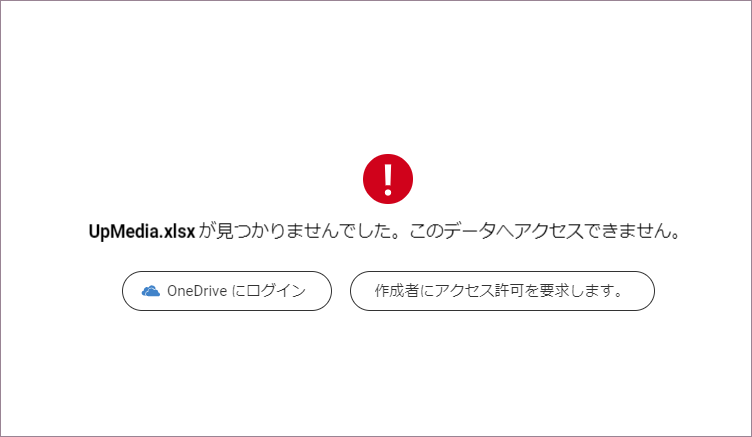
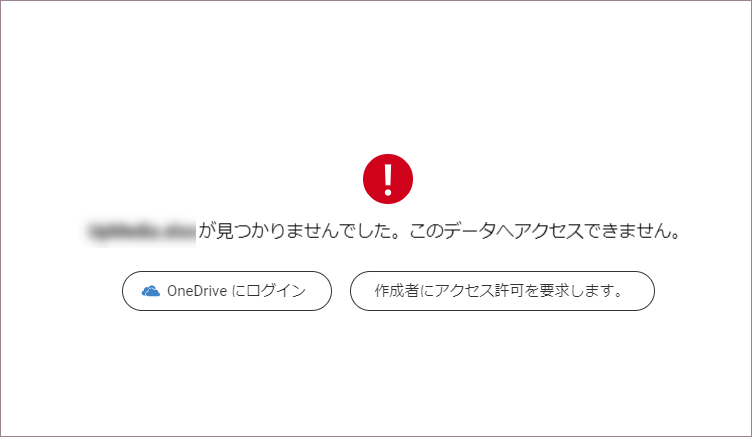
Localization fixes - images, TOC.

Changed region(s): [[0.0918, 0.5057, 0.2753, 0.5652]]

diff --git a/docfx/jp/docs/data-catalog.md b/docfx/jp/docs/data-catalog.md
@@ -56,7 +56,7 @@ Slingshot は、分析、データ ソースとセット、表示形式、ダッ
 
 3. **[適用]** をクリックまたはタップして変更を保存します。
 
-<img src="../images/data-sources-filter-dialog.png" alt="Different filters in the data catalog" width="40%" class="responsive-img"/>
+<img src="../images/data-sources-filter-dialog.png" alt="Different filters in the data catalog" width="35%" class="responsive-img"/>
 
 ## データ カタログの構成
 
@@ -93,9 +93,9 @@ Slingshot は、分析、データ ソースとセット、表示形式、ダッ
    Slingshot ユーザーが、分析、ワークスペース、プロジェクトにある、ダッシュボードまたはデータ ソースを持っているとします。そのコンテンツを組織全体で利用できるようにするには、そのためのプロセスを開始します。
    
    A. ダッシュボードのオーバーフロー (右上) をクリックまたはタップし、**[データ & 分析のカタログに移動]** を選択します。  
-   <img src="../images/data-catalog-dashboard-overflow.png" alt="Data Catalog dashboard overflow within Slingshot" class="responsive-img" width="50%"/> 
+   <img src="../images/data-catalog-dashboard-overflow.png" alt="Data Catalog dashboard overflow within Slingshot" class="responsive-img" width="45%"/> 
    B. 組織管理者に要求を説明するメッセージを書き込みます。ダッシュボードまたはデータ ソースのコピーを元の場所に保存するかどうかも選択できます。  
-   <img src="../images/data-catalog-request.png" alt="Data Catalog dashboard request within Slingshot" class="responsive-img" width="50%"/>  
+   <img src="../images/data-catalog-request.png" alt="Data Catalog dashboard request within Slingshot" class="responsive-img" width="45%"/>  
 
 2. **データ ソースまたはダッシュボードが [レビュー待ち] に移動します。**  
    **レビュー待ち**のリストには、組織の管理者によるレビュー待ちのすべてのデータ ソースまたはダッシュボードが含まれます。

diff --git a/docfx/jp/docs/analytics/dashboards/sharing-dashboards/request-access-shared-dashboards-cloud-files.md b/docfx/jp/docs/analytics/dashboards/sharing-dashboards/request-access-shared-dashboards-cloud-files.md
@@ -14,11 +14,11 @@ _language: ja
 
 ファイルが**削除されている**場合、共有ダッシュボードをクリックすると、Analytics は次のメッセージを表示します。
 
-<img src="images/deleted-source-file-message.png" alt="Message in Analytics: Can't access this data" class="responsive-img" width="60%"/>
+<img src="images/deleted-source-file-message.png" alt="Message in Analytics: Can't access this data" class="responsive-img" width="50%"/>
 
 ファイルへのアクセス許可が**取り消された**場合は、次のように表示されます。
 
-<img src="images/request-access-button.png" alt="configure Dropbox and request access options when access denied" class="responsive-img" width="60%"/>
+<img src="images/request-access-button.png" alt="configure Dropbox and request access options when access denied" class="responsive-img" width="50%"/>
 
 ## 権限の取り消されたデータ ソース ファイルへのアクセス許可
 
@@ -26,6 +26,6 @@ _language: ja
 
 **管理者**が (アプリまたはメールを介して) 通知を開くと、次のダイアログが表示され、データ ソースへの共有設定を更新するように求められます。
 
-<!--- <img src="images/some-data-is-not-accessible-dialog.png" alt="Dialog where you can change the sharing settings for the data source" class="responsive-img"/> --->
+<img src="images/some-data-is-not-accessible-dialog.png" alt="Dialog where you can change the sharing settings for the data source" class="responsive-img" width="50%"/>
 
 管理者が **[更新]** をクリックまたはタップすると、アクセスが正常に修正されたかどうかを通知するメッセージが表示されます。

diff --git a/docfx/jp/docs/analytics/dashboards/uploading-dashboards.md b/docfx/jp/docs/analytics/dashboards/uploading-dashboards.md
@@ -14,9 +14,9 @@ _language: ja
 
 3. オーバーフロー メニューに移動し、**[アップロード]** を選択します。
 
-    <img src="images/dashboard-upload-option.png" alt="Upload dashboard option" class="responsive-img" width="88%"/>
+    <img src="images/dashboard-upload-option.png" alt="Upload dashboard option" class="responsive-img" width="80%"/>
 
-2.  ローカル ファイルを表示するダイアログが開きます。アップロードするダッシュボードをダブル クリックまたはタップします。Reveal ダッシュボードのファイル拡張子は **.rdash** です。
+2.  ローカル ファイルを表示するダイアログが開きます。アップロードするダッシュボードをダブルクリックまたはタップします。Reveal ダッシュボードのファイル拡張子は **.rdash** です。
 
     >[!NOTE]
     >**ReportPlus ダッシュボードのアップロード**。[分析] では、ReportPlus で作成されたダッシュボードをアップロードして操作することもできます。ReportPlus ダッシュボードのファイル拡張子は **.rplus** です。

diff --git a/docfx/jp/docs/analytics/datasources/managing-data-source-credentials.md b/docfx/jp/docs/analytics/datasources/managing-data-source-credentials.md
@@ -33,7 +33,7 @@ _language: ja
 
 それらを削除しない限り、資格情報を必要とするデータ ソースを構成するときに、[分析] に保存されているアカウントの資格情報が常にアカウントの一覧に表示されます。
 
-<img src="images/stored-credentials-data-sources-list.png" alt="Example of stored credentials for a data source" class="responsive-img" width="60%"/>
+<img src="images/stored-credentials-data-sources-list.png" alt="Example of stored credentials for a data source" class="responsive-img" width="80%"/>
 
 > [!NOTE] 
 >役立つヒント! 複数のデータ ソースで使用する予定のすべての資格情報をここに追加して整理するために時間をかけてください。
